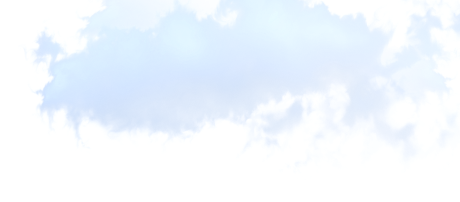
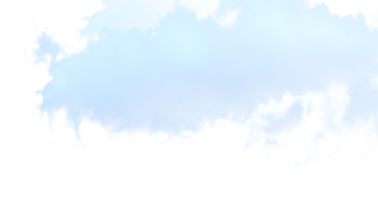
Новые фоны для блока с подробной информацией, отображение времени в заданом городе, день недели в карточках с заглавной буквы

diff --git a/src/components/CurrentWeather/CurrentWeather.jsx b/src/components/CurrentWeather/CurrentWeather.jsx
@@ -8,7 +8,7 @@ import { useDispatch, useSelector } from "react-redux";
 import { fetchCurrentWeather } from "../../store/slices/currentWeatherSlice";
 import { findWeatherIcon } from "../../hooks/findWeatherIcon";
 import Loader from "../Loader/Loader";
-import moment from "moment";
+import { findWeatherBg } from "../../hooks/findWeatherBg";
 
 function CurrentWeather() {
   const { place } = useParams();
@@ -18,7 +18,7 @@ function CurrentWeather() {
     dispatch(fetchCurrentWeather(place));
   }, []);
   const currentWeatherData = useSelector(
-    (state) => state.currentWeather.currentWeather
+    (state) => state.currentWeather.data
   );
   const loading = useSelector((state) => state.currentWeather.loading);
   return (
@@ -43,7 +43,9 @@ function CurrentWeather() {
                 />
               </div>
               <div className="main-info__bottom-wrapper">
-                <div className="main-info__time">Время: {moment(currentWeatherData.dt).format("hh:mm")}</div>
+                <div className="main-info__time">
+                  Время: {currentWeatherData.time}
+                </div>
                 <div className="main-info__location">
                   Город: {currentWeatherData.name}
                 </div>
@@ -52,10 +54,10 @@ function CurrentWeather() {
           )}
         </div>
         <div className="current-weather__detailed-info detailed-info">
-          {
-            loading ? (
-              <Loader/>
-            ) : (
+          {loading ? (
+            <Loader />
+          ) : (
+            <>
               <ul className="detailed-info__list">
                 <li className="detailed-info__list-item">
                   <div className="detailed-info__item-icon">
@@ -63,8 +65,8 @@ function CurrentWeather() {
                   </div>
                   <div className="detailed-info__item-title">Температура</div>
                   <div className="detailed-info__item-text">
-                    {Math.round(currentWeatherData.main.temp)}&deg; - ощущается как{" "}
-                    {Math.round(currentWeatherData.main.feels_like)}&deg;
+                    {Math.round(currentWeatherData.main.temp)}&deg; - ощущается
+                    как {Math.round(currentWeatherData.main.feels_like)}&deg;
                   </div>
                 </li>
                 <li className="detailed-info__list-item">
@@ -96,13 +98,13 @@ function CurrentWeather() {
                   </div>
                 </li>
               </ul>
-            )
-          }
-          <img
-            className="detailed-info__bg-image"
-            src=""
-            alt="weather background image"
-          />
+              <img
+                className="detailed-info__bg-image"
+                src={findWeatherBg(currentWeatherData.weather[0].id)}
+                alt="weather background image"
+              />
+            </>
+          )}
         </div>
       </div>
     </section>

diff --git a/src/components/WeatherTabs/WeatherTabs.jsx b/src/components/WeatherTabs/WeatherTabs.jsx
@@ -15,9 +15,7 @@ function WeatherTabs() {
   const dispatch = useDispatch();
   const forecastPeriod = useSelector((state) => state.dailyForecast.period);
   const loading = useSelector((state) => state.dailyForecast.loading);
-  const dailyForecastData = useSelector(
-    (state) => state.dailyForecast.dailyForecastData
-  );
+  const dailyForecastData = useSelector((state) => state.dailyForecast.data);
   useEffect(
     () => dispatch(fetchDailyForecast([place, forecastPeriod])),
     [forecastPeriod]
@@ -30,7 +28,9 @@ function WeatherTabs() {
             onClick={(e) => {
               dispatch(setPeriod(7));
             }}
-            className={`tabs-buttons-list__button ${forecastPeriod === 7 && 'tabs-buttons-list__button--active'}`}
+            className={`tabs-buttons-list__button ${
+              forecastPeriod === 7 && "tabs-buttons-list__button--active"
+            }`}
           >
             На неделю
           </button>
@@ -38,7 +38,9 @@ function WeatherTabs() {
             onClick={() => {
               dispatch(setPeriod(14));
             }}
-            className={`tabs-buttons-list__button ${forecastPeriod === 14 && 'tabs-buttons-list__button--active'}`}
+            className={`tabs-buttons-list__button ${
+              forecastPeriod === 14 && "tabs-buttons-list__button--active"
+            }`}
           >
             На 14 дней
           </button>

diff --git a/src/hooks/findWeatherIcon.js b/src/hooks/findWeatherIcon.js
@@ -4,29 +4,29 @@ import weatherIconRainAndSun from "../images/WetherIcons/IconRainAndSun.svg";
 import weatherIconSmallRain from "../images/WetherIcons/IconSmallRain.svg";
 import weatherIconRain from "../images/WetherIcons/IconRain.svg";
 
-export const findWeatherIcon = (description) => {
-  if (description >= 200 && description <= 232) {
+export const findWeatherIcon = (id) => {
+  if (id >= 200 && id <= 232) {
     return weatherIconRain;
   }
-  if (description >= 300 && description <= 321) {
+  if (id >= 300 && id <= 321) {
     return weatherIconSmallRain;
   }
-  if (description >= 500 && description <= 504) {
+  if (id >= 500 && id <= 504) {
     return weatherIconRainAndSun;
   }
-  if (description >= 504 && description <= 531) {
+  if (id >= 504 && id <= 531) {
     return weatherIconRain;
   }
-  if (description >= 600 && description <= 623) {
+  if (id >= 600 && id <= 623) {
     return weatherIconRain;
   }
-  if (description >= 701 && description <= 781) {
+  if (id >= 701 && id <= 781) {
     return weatherIconCloudly;
   }
-  if (description === 800) {
+  if (id === 800) {
     return weatherIconSun;
   }
-  if (description >= 801 && description <= 804) {
+  if (id >= 801 && id <= 804) {
     return weatherIconCloudly;
   }
 };

diff --git a/src/store/slices/currentWeatherSlice.js b/src/store/slices/currentWeatherSlice.js
@@ -3,7 +3,8 @@ import { openWeatherAPI } from "../../API/openWeatherAPI";
 
 const initialState = {
   loading: true,
-  currentWeather: {},
+  error: "",
+  data: {},
 };
 
 export const fetchCurrentWeather = createAsyncThunk(
@@ -18,21 +19,21 @@ export const fetchCurrentWeather = createAsyncThunk(
 const currentWeatherSlice = createSlice({
   name: "currentWeatherSlice",
   initialState,
-  reducers: {
-    getWeather: (state, action) => {
-      console.log(state);
-    },
-  },
   extraReducers: {
     [fetchCurrentWeather.pending]: (state) => {},
     [fetchCurrentWeather.fulfilled]: (state, action) => {
       console.log(action.payload);
-      state.currentWeather = action.payload;
+      state.data = action.payload;
+      const date = new Date();
+      console.log(date.getUTCHours());
+      state.data.time = `${date.getUTCHours() + (state.data.timezone / 3600)}:${date.getUTCMinutes()}`;
       state.loading = false;
     },
-    [fetchCurrentWeather.rejected]: (state) => {},
+    [fetchCurrentWeather.rejected]: (state, action) => {
+      state.error = action.payload
+      console.log(action.payload);
+    },
   },
 });
 
 export default currentWeatherSlice.reducer;
-export const { getWeather } = currentWeatherSlice.actions;

diff --git a/src/hooks/findWeatherBg.js b/src/hooks/findWeatherBg.js
@@ -1,0 +1,34 @@
+import weatherBgSun from "../images/Background/BgCloudAndSun.png";///Обрезать
+import weatherBgCloudly from "../images/Background/BgCloud.png";
+import weatherBgRainAndSun from "../images/Background/BgCloud.png";
+import weatherBgSmallRain from "../images/Background/BgCloud.png";
+import weatherBgRain from "../images/Background/BgRain.png";
+import weatherBgStorm from "../images/Background/BgStorm.png";
+import weatherBgSnow from "../images/Background/BgSnow.png";
+
+export const findWeatherBg = (id) => {
+  if (id >= 200 && id <= 232) {
+    return weatherBgRain;
+  }
+  if (id >= 300 && id <= 321) {
+    return weatherBgSmallRain;
+  }
+  if (id >= 500 && id <= 504) {
+    return weatherBgRainAndSun;
+  }
+  if (id >= 504 && id <= 531) {
+    return weatherBgRain;
+  }
+  if (id >= 600 && id <= 623) {
+    return weatherBgRain;
+  }
+  if (id >= 701 && id <= 781) {
+    return weatherBgCloudly;
+  }
+  if (id === 800) {
+    return weatherBgSun;
+  }
+  if (id >= 801 && id <= 804) {
+    return weatherBgCloudly;
+  }
+};

diff --git a/src/store/slices/dailyForecastSlice.js b/src/store/slices/dailyForecastSlice.js
@@ -4,7 +4,7 @@ import { weatherBitAPI } from "../../API/weatherBitAPI";
 const initialState = {
   loading: true,
   period: 7,
-  dailyForecastData: {},
+  data: {},
 };
 
 export const fetchDailyForecast = createAsyncThunk(
@@ -23,7 +23,6 @@ const dailyForecastSlice = createSlice({
   reducers: {
     setPeriod: (state, action) => {
       state.period = action.payload;
-      console.log("Период изменен");
     },
   },
   extraReducers: {
@@ -33,7 +32,7 @@ const dailyForecastSlice = createSlice({
     [fetchDailyForecast.fulfilled]: (state, action) => {
       console.log(action.payload);
       state.loading = false;
-      state.dailyForecastData = action.payload;
+      state.data = action.payload;
     },
     [fetchDailyForecast.rejected]: (state) => {},
   },

diff --git a/src/components/DailyForecastCard/DailyForecastCard.jsx b/src/components/DailyForecastCard/DailyForecastCard.jsx
@@ -6,10 +6,13 @@ import 'moment/locale/ru'
 moment.locale("ru");
 
 export function DailyForecastCard({ data }) {
+  let weekDay = moment(data.datetime).format('dddd').split('');
+  weekDay[0] = weekDay[0].toUpperCase();
+  weekDay.join('');
   return (
     <SwiperSlide className="weather-mini-card">
       <p className="weather-mini-card__week-day">
-        {moment(data.datetime).format("dddd")}
+        {weekDay}
       </p>
       <p className="weather-mini-card__date">{moment(data.datetime).format('DD.MM')}</p>
       <img

diff --git a/src/style/components/current-weather.scss b/src/style/components/current-weather.scss
@@ -50,6 +50,7 @@
   }
 }
 .detailed-info{
+  overflow: hidden;
   font-size: 14px;
   position: relative;
   z-index: 2;
